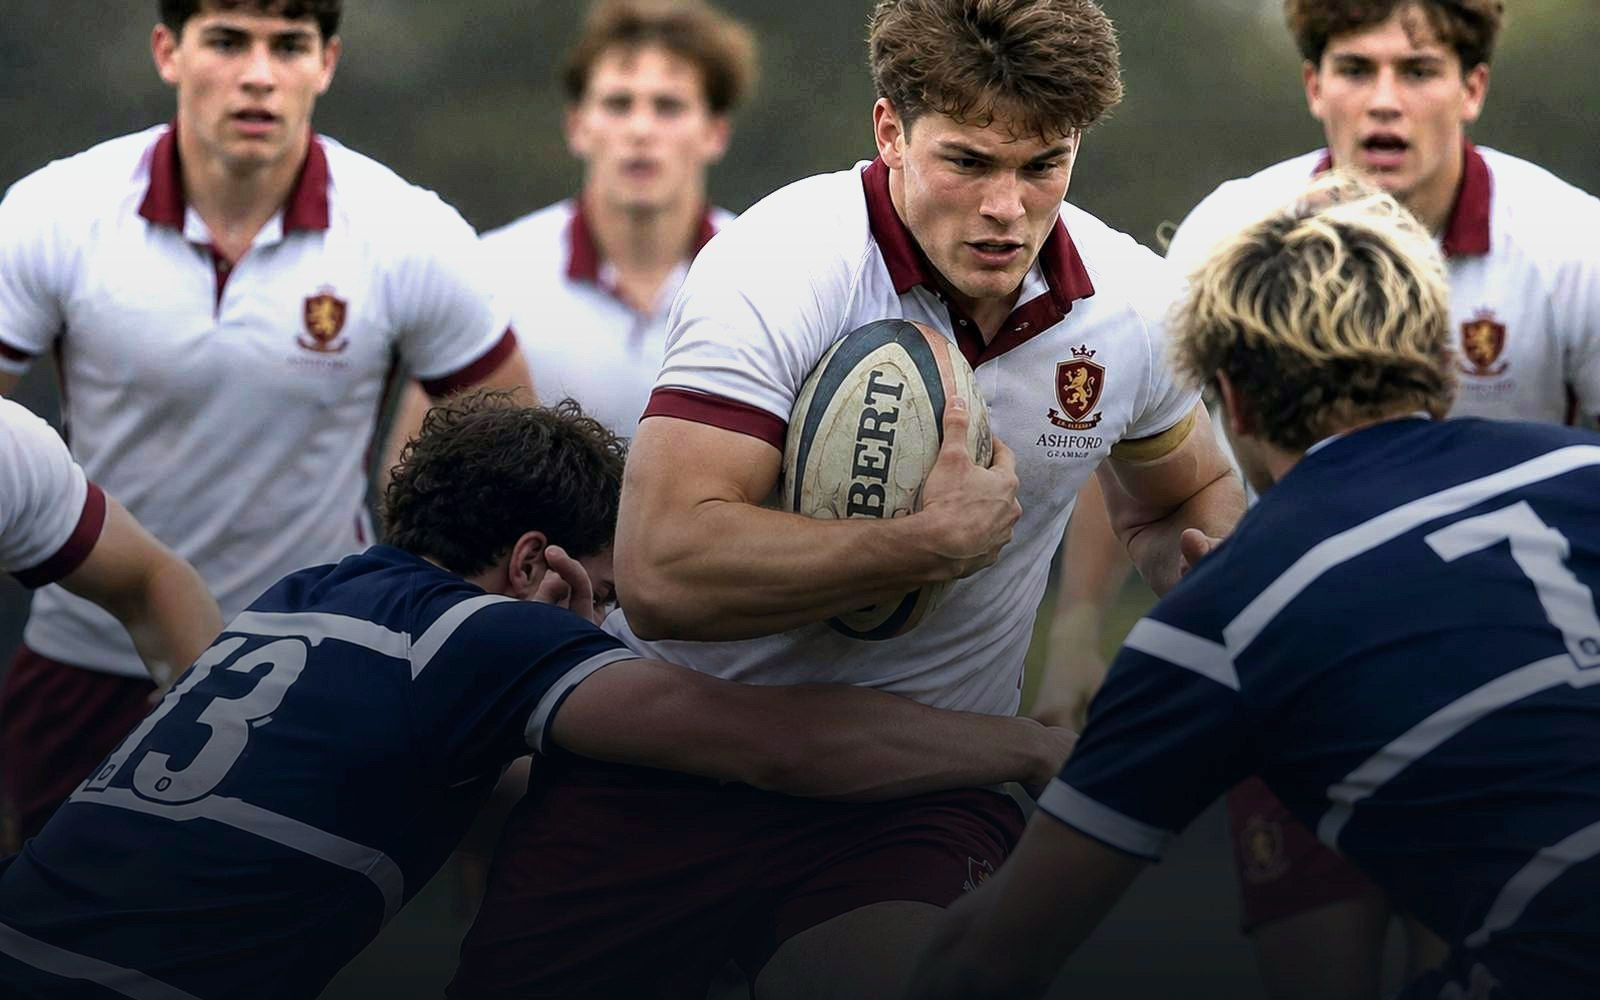
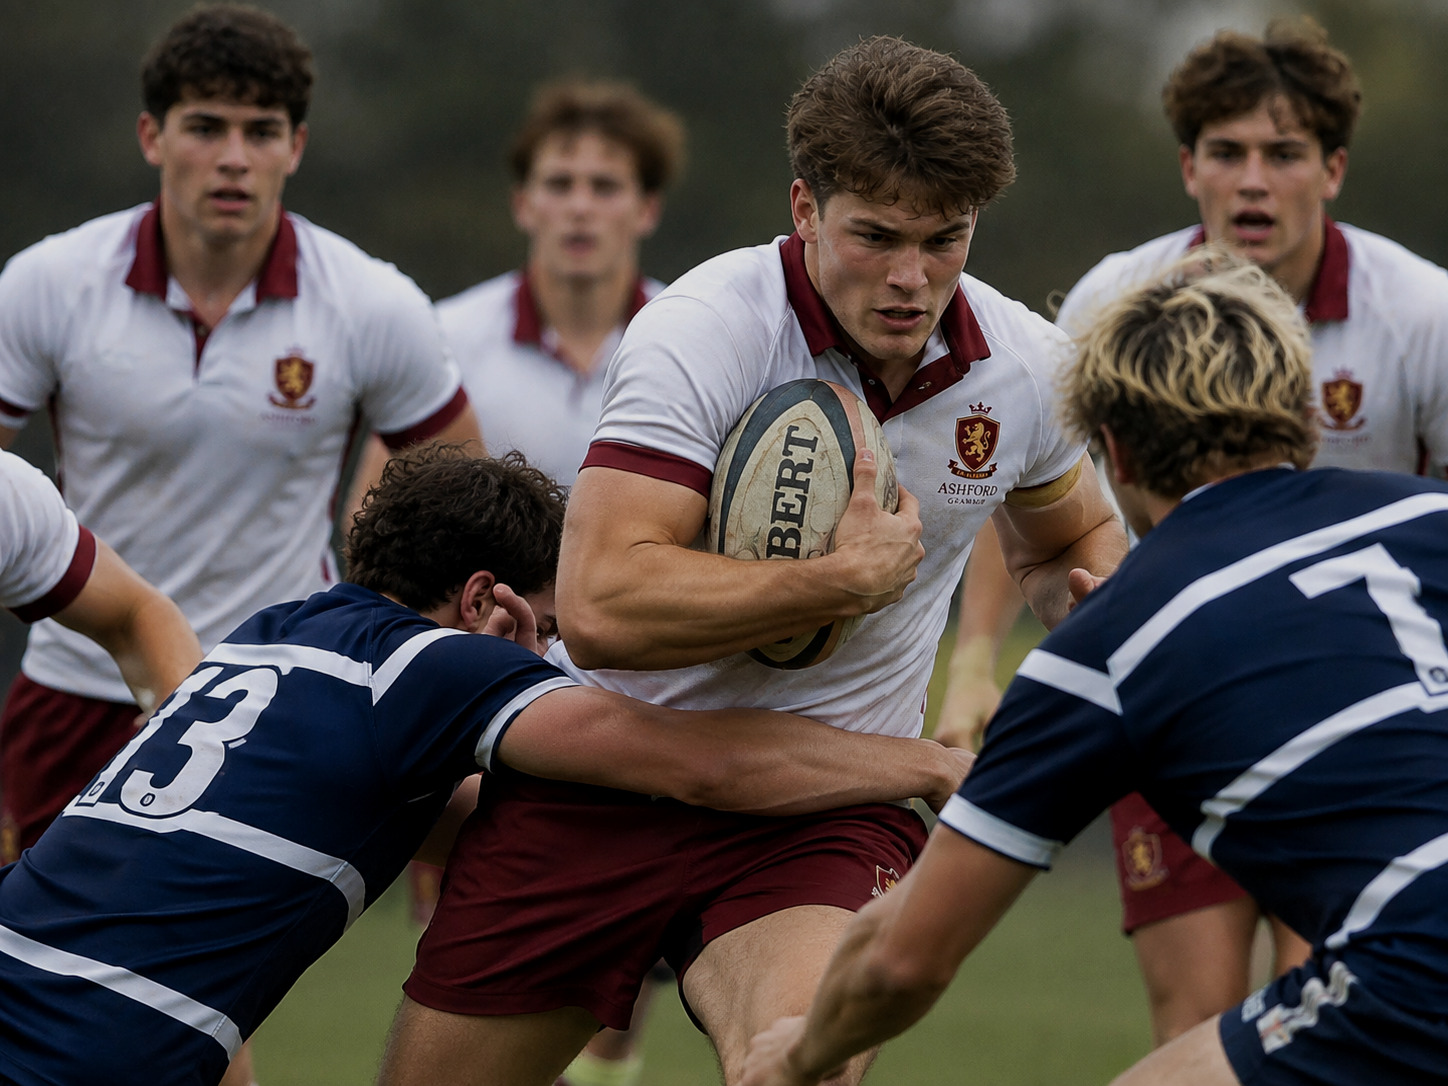
Reprocess hero images without upscaling or double-crop; remove portal sign-in prompt

diff --git a/app/portal/page.tsx b/app/portal/page.tsx
@@ -16,7 +16,6 @@ import RecognitionPanel  from '@/components/portal/RecognitionPanel';
 import SponsorStrip      from '@/components/portal/SponsorStrip';
 import { useBranding } from '@/components/BrandingProvider';
 import PortalSportSwitcher from '@/components/portal/PortalSportSwitcher';
-import MyAthleteCard from '@/components/portal/MyAthleteCard';
 
 type Row = Record<string, any>;
 
@@ -126,13 +125,11 @@ function PortalInner() {
           />
         </ScrollReveal>
 
-        {/* Sign-in prompt sits AFTER the fixtures — a parent arrives wanting
-            Saturday's kick-off time, and only then is "see your own results"
-            a useful offer rather than an interruption. */}
-        <div style={{ maxWidth: 1240, margin: '0 auto', padding: '0 24px 44px' }}>
-          <MyAthleteCard/>
-        </div>
-
+        {/* The "see your own results" prompt was removed entirely. The nav
+            already carries Player Login, so anyone who wants their own data
+            has an obvious route — a second standing invitation on a page
+            whose job is fixtures and results was just clutter. MyAthleteCard
+            is kept for the signed-in states, which ARE useful. */}
         {/* Player Resources */}
         <ScrollReveal>
           <PlayerResources programs={data?.programs ?? []} color={color} loading={loading}/>

diff --git a/components/portal/PortalHero.tsx b/components/portal/PortalHero.tsx
@@ -87,10 +87,15 @@ export default function PortalHero({ sport, nextFixture }: Props) {
       {heroImg && (
         <div style={{ position:'absolute', inset:0, zIndex:0 }}>
           {/* eslint-disable-next-line @next/next/no-img-element */}
+          {/* objectPosition 'center 30%' keeps faces and action in frame.
+              At 20% the crop sat too high and cut heads off — combined with
+              the crop that used to be baked into the file itself, subjects
+              were being cropped twice. The files now ship close to their
+              native aspect so this is the only crop applied. */}
           <img src={heroImg} alt="" style={{
-            width:'100%', height:'100%', objectFit:'cover', objectPosition:'center 20%',
-            transform: mounted ? 'scale(1)' : 'scale(1.05)',
-            transition:'transform 1.8s cubic-bezier(.16,1,.3,1)',
+            width:'100%', height:'100%', objectFit:'cover', objectPosition:'center 30%',
+            transform: mounted ? 'scale(1)' : 'scale(1.04)',
+            transition:'transform 2.2s cubic-bezier(.16,1,.3,1)',
           }}/>
           <div style={{ position:'absolute', inset:0,
             background:'linear-gradient(180deg, rgba(3,8,16,0.30) 0%, rgba(3,8,16,0.62) 45%, #030810 94%)' }}/>
